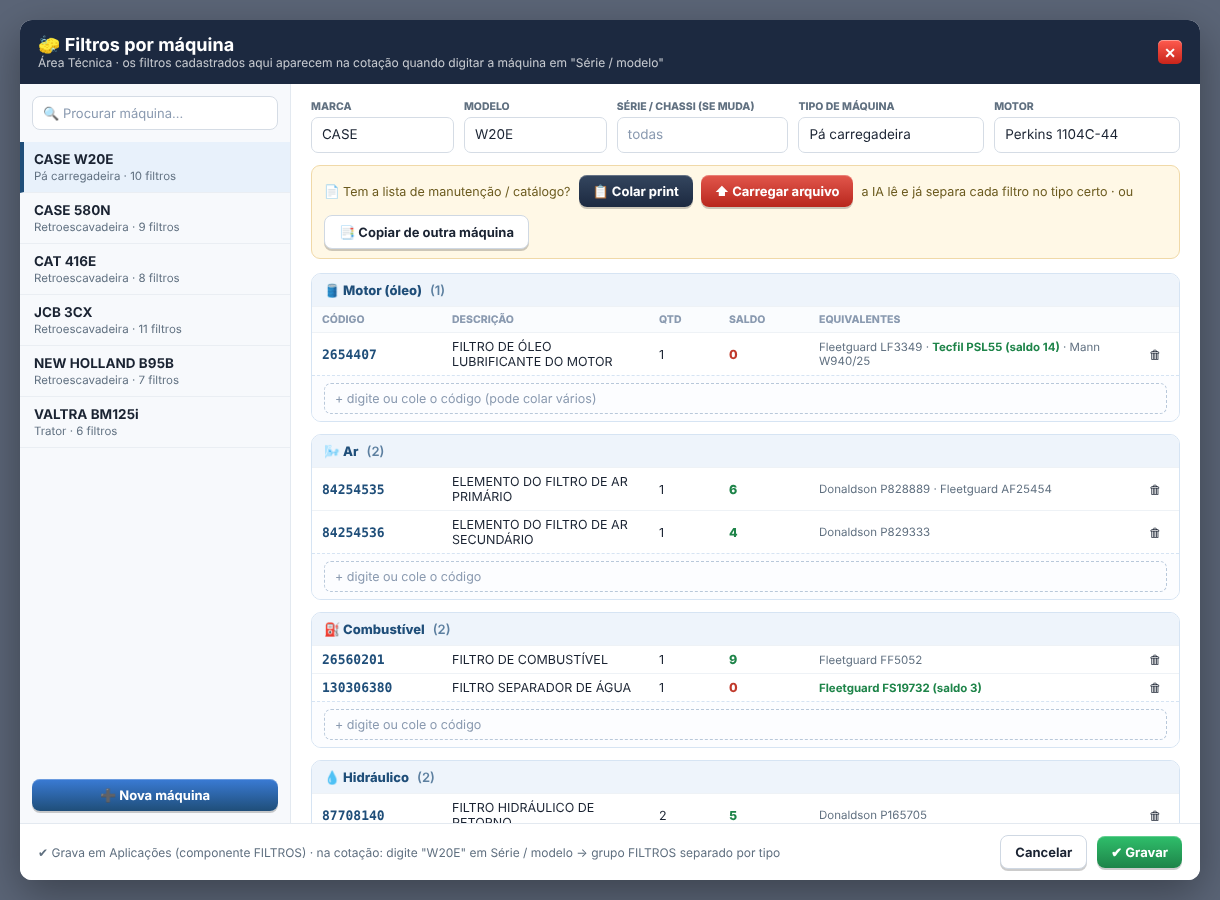
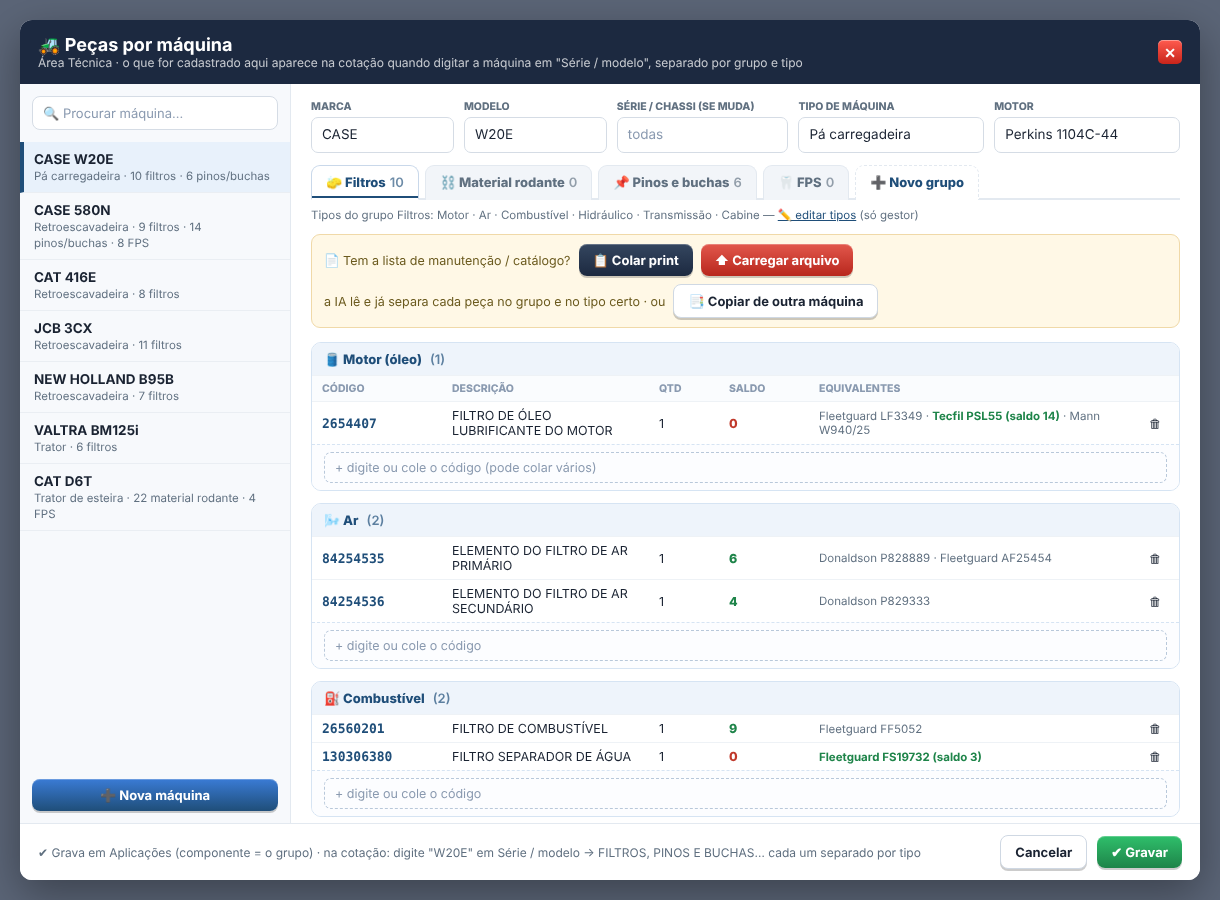
Prévia (não publicada): Peças por máquina com grupos
Claude-Session: https://claude.ai/code/session_01AvLAbEZRZGJc3jz1tjbKj6

diff --git a/docs/referencias/filtros-por-tipo/previa-rodante.html b/docs/referencias/filtros-por-tipo/previa-rodante.html
@@ -1,0 +1,76 @@
+<!doctype html>
+<html lang="pt-BR"><head><meta charset="utf-8"><title>Prévia — Peças por máquina</title>
+<style>
+body{margin:0;background:#5b6577;font-family:Inter,Segoe UI,Arial,sans-serif;color:#1a2332}
+.fundo{position:fixed;inset:0;display:flex;align-items:center;justify-content:center;padding:18px;box-sizing:border-box}
+.jan{background:#fff;border-radius:12px;width:1180px;max-width:100%;height:860px;display:flex;flex-direction:column;overflow:hidden;box-shadow:0 14px 44px rgba(0,0,0,.35)}
+.cab{background:#1c2940;color:#fff;padding:14px 18px;display:flex;align-items:center;gap:12px}
+.cab h3{margin:0;font-size:18px}.cab .sub{font-size:12px;opacity:.75}
+.x{width:24px;height:24px;border-radius:5px;background:linear-gradient(#ff5b4f,#c8241a);display:flex;align-items:center;justify-content:center;color:#fff;font-weight:900;font-size:14px;box-shadow:inset 0 1px 0 rgba(255,255,255,.4)}
+.corpo{flex:1;display:flex;min-height:0}
+.lado{width:270px;border-right:1px solid #e3e9f0;background:#f7f9fc;display:flex;flex-direction:column}
+.lado .busca{margin:12px;padding:8px 10px;border:1.5px solid #d5dce5;border-radius:8px;font-size:13px;color:#8a9ab0;background:#fff}
+.maq{padding:9px 14px;border-bottom:1px solid #eaeef3;cursor:pointer;font-size:13px}
+.maq b{display:block;font-size:13.5px}.maq span{font-size:11.5px;color:#607080}
+.maq.at{background:#e8f1fb;border-left:4px solid #1F4E79;padding-left:10px}
+.meio{flex:1;overflow:auto;padding:16px 20px}
+.campos{display:grid;grid-template-columns:1fr 1fr 1.2fr 1.3fr 1.3fr;gap:10px;margin-bottom:12px}
+.campo label{display:block;font-size:10.5px;font-weight:800;color:#607080;text-transform:uppercase;margin-bottom:4px}
+.campo div{border:1.5px solid #d5dce5;border-radius:7px;padding:8px 10px;font-size:13.5px;min-height:18px}
+.faixa{display:flex;gap:8px;align-items:center;flex-wrap:wrap;background:#FFF8E6;border:1px solid #F0D9A8;border-radius:9px;padding:9px 12px;margin-bottom:14px;font-size:12.5px;color:#6b5a1e}
+.btn{display:inline-flex;align-items:center;gap:6px;padding:8px 14px;border-radius:8px;font-weight:700;font-size:13px;border:0;color:#fff;box-shadow:inset 0 1px 0 rgba(255,255,255,.25),0 2px 0 rgba(0,0,0,.2)}
+.escuro{background:linear-gradient(#34465f,#1c2940)}.verm{background:linear-gradient(#e2574c,#b8271d)}.verde{background:linear-gradient(#2fbf6b,#1e8449)}.claro{background:#fff;color:#1a2332;border:1.5px solid #cfd8e3}.azul{background:linear-gradient(#3a7bd5,#1F4E79)}
+.bloco{border:1px solid #d6e4f3;border-radius:10px;margin-bottom:12px;overflow:hidden}
+.bh{background:#EEF4FB;color:#1F4E79;font-weight:800;font-size:13px;padding:8px 12px;display:flex;align-items:center;gap:8px}
+.bh .n{font-weight:600;opacity:.7}
+table{width:100%;border-collapse:collapse;font-size:12.5px;table-layout:fixed}
+tr>*:nth-child(1){width:110px}tr>*:nth-child(3){width:46px}tr>*:nth-child(4){width:60px}tr>*:nth-child(5){width:310px}tr>*:nth-child(6){width:24px}
+td,th{padding:6px 10px;border-top:1px solid #eef2f6;text-align:left}
+th{font-size:10.5px;color:#8a9ab0;text-transform:uppercase;font-weight:800;background:#fafcfe}
+.cod{font-family:Consolas,monospace;font-weight:800;color:#1F4E79;font-size:13px}
+.ok{color:#1E8449;font-weight:800}.zero{color:#C0392B;font-weight:800}
+.eq{font-size:11.5px;color:#607080}.eq b{color:#1E8449}
+.add{display:flex;gap:8px;align-items:center;padding:7px 12px;border-top:1px dashed #d6e4f3;background:#fcfdff}
+.add .in{flex:1;border:1.5px dashed #b8c8da;border-radius:7px;padding:7px 10px;color:#8a9ab0;font-size:12.5px}
+.vazio{padding:8px 12px;color:#8a9ab0;font-size:12px;font-style:italic}
+.abas{display:flex;gap:6px;flex-wrap:wrap;border-bottom:2px solid #e3e9f0;margin:4px 0 14px;padding-bottom:0}
+.aba{padding:8px 14px;border-radius:9px 9px 0 0;font-weight:800;font-size:13px;color:#607080;background:#f2f5f9;border:1px solid #e3e9f0;border-bottom:0;margin-bottom:-2px}
+.aba.at{background:#fff;color:#1F4E79;border-color:#c9d8ea;border-bottom:2px solid #fff;box-shadow:0 -2px 0 #1F4E79 inset}
+.aba .c{font-weight:600;opacity:.65;margin-left:4px}.aba.nova{background:#fff;border-style:dashed;color:#1F4E79}
+.cfg{font-size:11.5px;color:#607080;margin:-6px 0 12px}.cfg u{color:#1F4E79;cursor:pointer}
+.rod{border-top:1px solid #e3e9f0;padding:11px 18px;display:flex;align-items:center;gap:10px;background:#fff}
+.rod .info{flex:1;font-size:12px;color:#607080}
+</style></head><body><div class="fundo"><div class="jan">
+<div class="cab"><div style="flex:1"><h3>🚜 Peças por máquina</h3><div class="sub">Área Técnica · o que for cadastrado aqui aparece na cotação quando digitar a máquina em "Série / modelo", separado por grupo e tipo</div></div><div class="x">✕</div></div>
+<div class="corpo">
+ <div class="lado">
+  <div class="busca">🔍 Procurar máquina…</div>
+  <div class="maq"><b>CASE W20E</b><span>Pá carregadeira · 10 filtros · 6 pinos/buchas</span></div>
+  <div class="maq"><b>CASE 580N</b><span>Retroescavadeira · 9 filtros · 14 pinos/buchas · 8 FPS</span></div>
+  <div class="maq"><b>CAT 416E</b><span>Retroescavadeira · 8 filtros</span></div>
+  <div class="maq"><b>JCB 3CX</b><span>Retroescavadeira · 11 filtros</span></div>
+  <div class="maq"><b>NEW HOLLAND B95B</b><span>Retroescavadeira · 7 filtros</span></div>
+  <div class="maq"><b>VALTRA BM125i</b><span>Trator · 6 filtros</span></div><div class="maq at"><b>CAT D6T</b><span>Trator de esteira · 22 material rodante · 4 FPS</span></div>
+  <div style="flex:1"></div>
+  <div style="padding:12px"><span class="btn azul" style="width:100%;justify-content:center;box-sizing:border-box">➕ Nova máquina</span></div>
+ </div>
+ <div class="meio">
+  <div class="campos">
+   <div class="campo"><label>Marca</label><div>CAT</div></div>
+   <div class="campo"><label>Modelo</label><div>D6T</div></div>
+   <div class="campo"><label>Série / chassi (se muda)</label><div style="color:#8a9ab0">todas</div></div>
+   <div class="campo"><label>Tipo de máquina</label><div>Trator de esteira</div></div>
+   <div class="campo"><label>Motor</label><div>CAT C9.3</div></div>
+  </div>
+  <div class="abas"><span class="aba ABAF">🧽 Filtros<span class="c">12</span></span><span class="aba at">⛓ Material rodante<span class="c">22</span></span><span class="aba ABAP">📌 Pinos e buchas<span class="c">0</span></span><span class="aba ABAG">🦷 FPS<span class="c">4</span></span><span class="aba nova">➕ Novo grupo</span></div><div class="cfg">Tipos do grupo Material rodante: Corrente · Sapatas · Roletes inf./sup. · Roda guia · Roda motriz — <u>✏ editar tipos</u> (só gestor)</div><div class="faixa">📄 Tem a lista de manutenção / catálogo? <span class="btn escuro">📋 Colar print</span><span class="btn verm">⬆ Carregar arquivo</span> a IA lê e já separa cada peça no grupo e no tipo certo · ou <span class="btn claro">📑 Copiar de outra máquina</span></div>
+
+  <div class="bloco"><div class="bh">🔗 Corrente / esteira <span class="n">(1)</span></div><table><tr><td class="cod">6Y5244</td><td>CORRENTE DA ESTEIRA 43 ELOS</td><td>2</td><td class="ok">1</td><td class="eq">Berco · ITM</td><td>🗑</td></tr></table><div class="add"><span class="in">+ digite ou cole o código</span></div></div>
+<div class="bloco"><div class="bh">🟫 Sapatas <span class="n">(1)</span></div><table><tr><td class="cod">6Y2389</td><td>SAPATA DA ESTEIRA 560MM</td><td>86</td><td class="ok">40</td><td class="eq">—</td><td>🗑</td></tr></table><div class="add"><span class="in">+ digite ou cole o código</span></div></div>
+<div class="bloco"><div class="bh">⚙ Roletes inferiores <span class="n">(1)</span></div><table><tr><td class="cod">1951808</td><td>ROLETE INFERIOR FLANGE SIMPLES</td><td>12</td><td class="zero">0</td><td class="eq"><b>Berco CR5821 (saldo 16)</b></td><td>🗑</td></tr></table><div class="add"><span class="in">+ digite ou cole o código</span></div></div>
+<div class="bloco"><div class="bh">⚙ Roletes superiores <span class="n">(1)</span></div><table><tr><td class="cod">1846466</td><td>ROLETE SUPERIOR</td><td>4</td><td class="ok">6</td><td class="eq">ITM</td><td>🗑</td></tr></table><div class="add"><span class="in">+ digite ou cole o código</span></div></div>
+<div class="bloco"><div class="bh">⭕ Roda guia <span class="n">(1)</span></div><table><tr><td class="cod">2350720</td><td>RODA GUIA DIANTEIRA</td><td>2</td><td class="ok">2</td><td class="eq">—</td><td>🗑</td></tr></table><div class="add"><span class="in">+ digite ou cole o código</span></div></div>
+<div class="bloco"><div class="bh">🦷 Roda motriz / segmentos <span class="n">(1)</span></div><table><tr><td class="cod">1T1129</td><td>SEGMENTO DA RODA MOTRIZ</td><td>10</td><td class="ok">30</td><td class="eq">Berco CR6015</td><td>🗑</td></tr></table><div class="add"><span class="in">+ digite ou cole o código</span></div></div>
+</div>
+</div>
+<div class="rod"><div class="info">✔ Grava em Aplicações (componente = o grupo) · na cotação: digite "W20E" em Série / modelo → FILTROS, PINOS E BUCHAS… cada um separado por tipo</div><span class="btn claro">Cancelar</span><span class="btn verde">✔ Gravar</span></div>
+</div></div></body></html>

diff --git a/docs/referencias/filtros-por-tipo/previa-tela.html b/docs/referencias/filtros-por-tipo/previa-tela.html
@@ -1,5 +1,5 @@
 <!doctype html>
-<html lang="pt-BR"><head><meta charset="utf-8"><title>Prévia — Filtros por máquina</title>
+<html lang="pt-BR"><head><meta charset="utf-8"><title>Prévia — Peças por máquina</title>
 <style>
 body{margin:0;background:#5b6577;font-family:Inter,Segoe UI,Arial,sans-serif;color:#1a2332}
 .fundo{position:fixed;inset:0;display:flex;align-items:center;justify-content:center;padding:18px;box-sizing:border-box}
@@ -33,19 +33,24 @@ th{font-size:10.5px;color:#8a9ab0;text-transform:uppercase;font-weight:800;backg
 .add{display:flex;gap:8px;align-items:center;padding:7px 12px;border-top:1px dashed #d6e4f3;background:#fcfdff}
 .add .in{flex:1;border:1.5px dashed #b8c8da;border-radius:7px;padding:7px 10px;color:#8a9ab0;font-size:12.5px}
 .vazio{padding:8px 12px;color:#8a9ab0;font-size:12px;font-style:italic}
+.abas{display:flex;gap:6px;flex-wrap:wrap;border-bottom:2px solid #e3e9f0;margin:4px 0 14px;padding-bottom:0}
+.aba{padding:8px 14px;border-radius:9px 9px 0 0;font-weight:800;font-size:13px;color:#607080;background:#f2f5f9;border:1px solid #e3e9f0;border-bottom:0;margin-bottom:-2px}
+.aba.at{background:#fff;color:#1F4E79;border-color:#c9d8ea;border-bottom:2px solid #fff;box-shadow:0 -2px 0 #1F4E79 inset}
+.aba .c{font-weight:600;opacity:.65;margin-left:4px}.aba.nova{background:#fff;border-style:dashed;color:#1F4E79}
+.cfg{font-size:11.5px;color:#607080;margin:-6px 0 12px}.cfg u{color:#1F4E79;cursor:pointer}
 .rod{border-top:1px solid #e3e9f0;padding:11px 18px;display:flex;align-items:center;gap:10px;background:#fff}
 .rod .info{flex:1;font-size:12px;color:#607080}
 </style></head><body><div class="fundo"><div class="jan">
-<div class="cab"><div style="flex:1"><h3>🧽 Filtros por máquina</h3><div class="sub">Área Técnica · os filtros cadastrados aqui aparecem na cotação quando digitar a máquina em "Série / modelo"</div></div><div class="x">✕</div></div>
+<div class="cab"><div style="flex:1"><h3>🚜 Peças por máquina</h3><div class="sub">Área Técnica · o que for cadastrado aqui aparece na cotação quando digitar a máquina em "Série / modelo", separado por grupo e tipo</div></div><div class="x">✕</div></div>
 <div class="corpo">
  <div class="lado">
   <div class="busca">🔍 Procurar máquina…</div>
-  <div class="maq at"><b>CASE W20E</b><span>Pá carregadeira · 10 filtros</span></div>
-  <div class="maq"><b>CASE 580N</b><span>Retroescavadeira · 9 filtros</span></div>
+  <div class="maq at"><b>CASE W20E</b><span>Pá carregadeira · 10 filtros · 6 pinos/buchas</span></div>
+  <div class="maq"><b>CASE 580N</b><span>Retroescavadeira · 9 filtros · 14 pinos/buchas · 8 FPS</span></div>
   <div class="maq"><b>CAT 416E</b><span>Retroescavadeira · 8 filtros</span></div>
   <div class="maq"><b>JCB 3CX</b><span>Retroescavadeira · 11 filtros</span></div>
   <div class="maq"><b>NEW HOLLAND B95B</b><span>Retroescavadeira · 7 filtros</span></div>
-  <div class="maq"><b>VALTRA BM125i</b><span>Trator · 6 filtros</span></div>
+  <div class="maq"><b>VALTRA BM125i</b><span>Trator · 6 filtros</span></div><div class="maq"><b>CAT D6T</b><span>Trator de esteira · 22 material rodante · 4 FPS</span></div>
   <div style="flex:1"></div>
   <div style="padding:12px"><span class="btn azul" style="width:100%;justify-content:center;box-sizing:border-box">➕ Nova máquina</span></div>
  </div>
@@ -57,7 +62,7 @@ th{font-size:10.5px;color:#8a9ab0;text-transform:uppercase;font-weight:800;backg
    <div class="campo"><label>Tipo de máquina</label><div>Pá carregadeira</div></div>
    <div class="campo"><label>Motor</label><div>Perkins 1104C-44</div></div>
   </div>
-  <div class="faixa">📄 Tem a lista de manutenção / catálogo? <span class="btn escuro">📋 Colar print</span><span class="btn verm">⬆ Carregar arquivo</span> a IA lê e já separa cada filtro no tipo certo · ou <span class="btn claro">📑 Copiar de outra máquina</span></div>
+  <div class="abas"><span class="aba at">🧽 Filtros<span class="c">10</span></span><span class="aba ABAM">⛓ Material rodante<span class="c">0</span></span><span class="aba ABAP">📌 Pinos e buchas<span class="c">6</span></span><span class="aba ABAG">🦷 FPS<span class="c">0</span></span><span class="aba nova">➕ Novo grupo</span></div><div class="cfg">Tipos do grupo Filtros: Motor · Ar · Combustível · Hidráulico · Transmissão · Cabine — <u>✏ editar tipos</u> (só gestor)</div><div class="faixa">📄 Tem a lista de manutenção / catálogo? <span class="btn escuro">📋 Colar print</span><span class="btn verm">⬆ Carregar arquivo</span> a IA lê e já separa cada peça no grupo e no tipo certo · ou <span class="btn claro">📑 Copiar de outra máquina</span></div>
 
   <div class="bloco"><div class="bh">🛢 Motor (óleo) <span class="n">(1)</span></div>
    <table><tr><th style="width:110px">Código</th><th>Descrição</th><th style="width:50px">Qtd</th><th style="width:70px">Saldo</th><th>Equivalentes</th><th style="width:20px"></th></tr>
@@ -89,5 +94,5 @@ th{font-size:10.5px;color:#8a9ab0;text-transform:uppercase;font-weight:800;backg
    <div class="add"><span class="in">+ digite ou cole o código</span></div></div>
  </div>
 </div>
-<div class="rod"><div class="info">✔ Grava em Aplicações (componente FILTROS) · na cotação: digite "W20E" em Série / modelo → grupo FILTROS separado por tipo</div><span class="btn claro">Cancelar</span><span class="btn verde">✔ Gravar</span></div>
+<div class="rod"><div class="info">✔ Grava em Aplicações (componente = o grupo) · na cotação: digite "W20E" em Série / modelo → FILTROS, PINOS E BUCHAS… cada um separado por tipo</div><span class="btn claro">Cancelar</span><span class="btn verde">✔ Gravar</span></div>
 </div></div></body></html>
